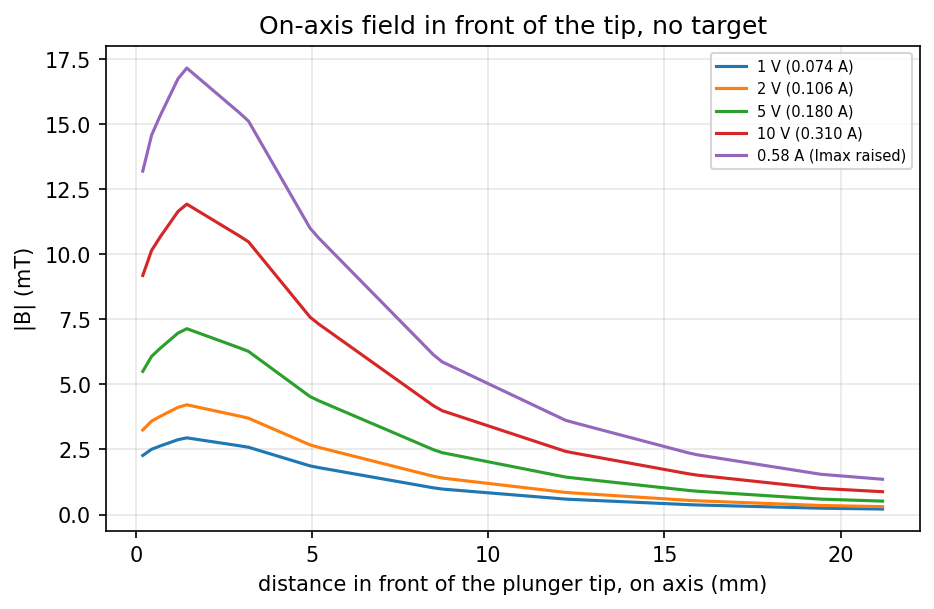
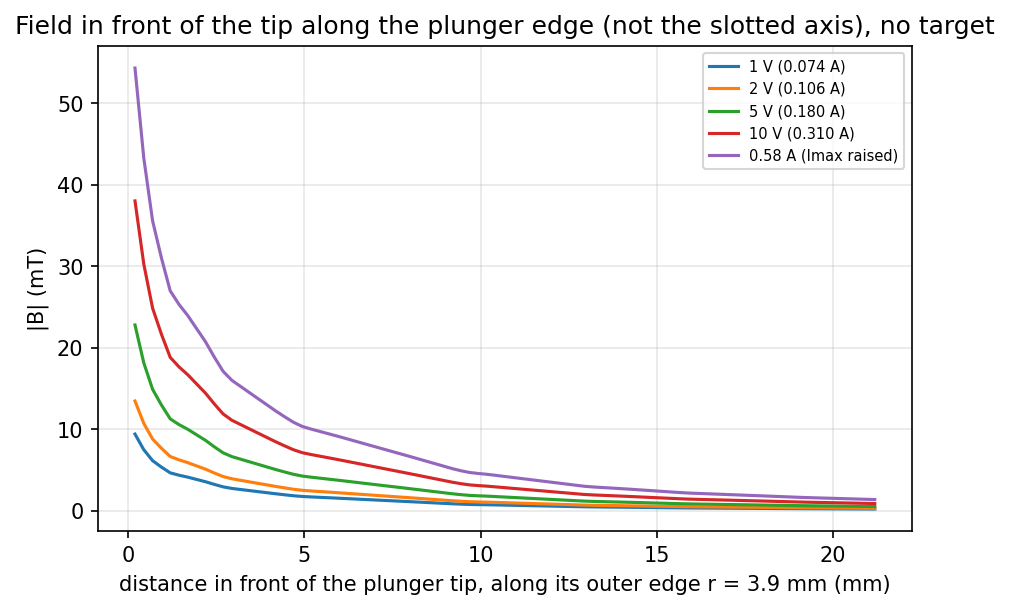
Take the field profile along the plunger outer edge instead of the slotted axis.

diff --git a/simulations/ledex_femm/plot_results.py b/simulations/ledex_femm/plot_results.py
@@ -279,10 +279,13 @@ def plot_axial_profile():
             continue
         r, z, br, bz, bm = load_grid(path)
         sel = z <= -PROTRUDE
-        ax.plot(-PROTRUDE - z[sel], bm[sel, 0] * 1000, label=current_label(a))
-    ax.set_xlabel("distance in front of the plunger tip, on axis (mm)")
+        i = np.searchsorted(r, RP)                      # interpolate to r = RP between grid columns
+        w = (RP - r[i - 1]) / (r[i] - r[i - 1])
+        line = (1 - w) * bm[sel, i - 1] + w * bm[sel, i]
+        ax.plot(-PROTRUDE - z[sel], line * 1000, label=current_label(a))
+    ax.set_xlabel("distance in front of the plunger tip, along its outer edge r = 3.9 mm (mm)")
     ax.set_ylabel("|B| (mT)")
-    ax.set_title("On-axis field in front of the tip, no target")
+    ax.set_title("Field in front of the tip along the plunger edge (not the slotted axis), no target")
     ax.grid(True, alpha=0.3)
     ax.legend(fontsize=7)
     save(fig, "axial_profile.png")

diff --git a/simulations/ledex_femm/README.md b/simulations/ledex_femm/README.md
@@ -106,7 +106,7 @@ Caveats:
   the calibrated values.
 - `femm_run.py`: runs FEMM in parallel on Windows or on a Mac under Wine (Python 3.6+, standard
   library only). `python3 femm_run.py sweeps` (all sweeps and field grids; `--only <regex>`,
-  `--no-grids`), `summary` (`results/forces.csv`, `axial_B.csv`, `stroke.csv`), `maps` (FEMM
+  `--no-grids`), `summary` (`results/forces.csv`, `axial_B.csv` (field along the plunger outer edge r = 3.91 mm, not the slotted axis), `stroke.csv`), `maps` (FEMM
   screenshots in `figures/plots/femm/`, needs Pillow for PNG). `FEMM_WORKERS` sets the number of
   parallel FEMM processes.
 - `calibrate.py`: the datasheet fit (`screen`, `refine`, `explore`, `best`, `band`, or `all`);
